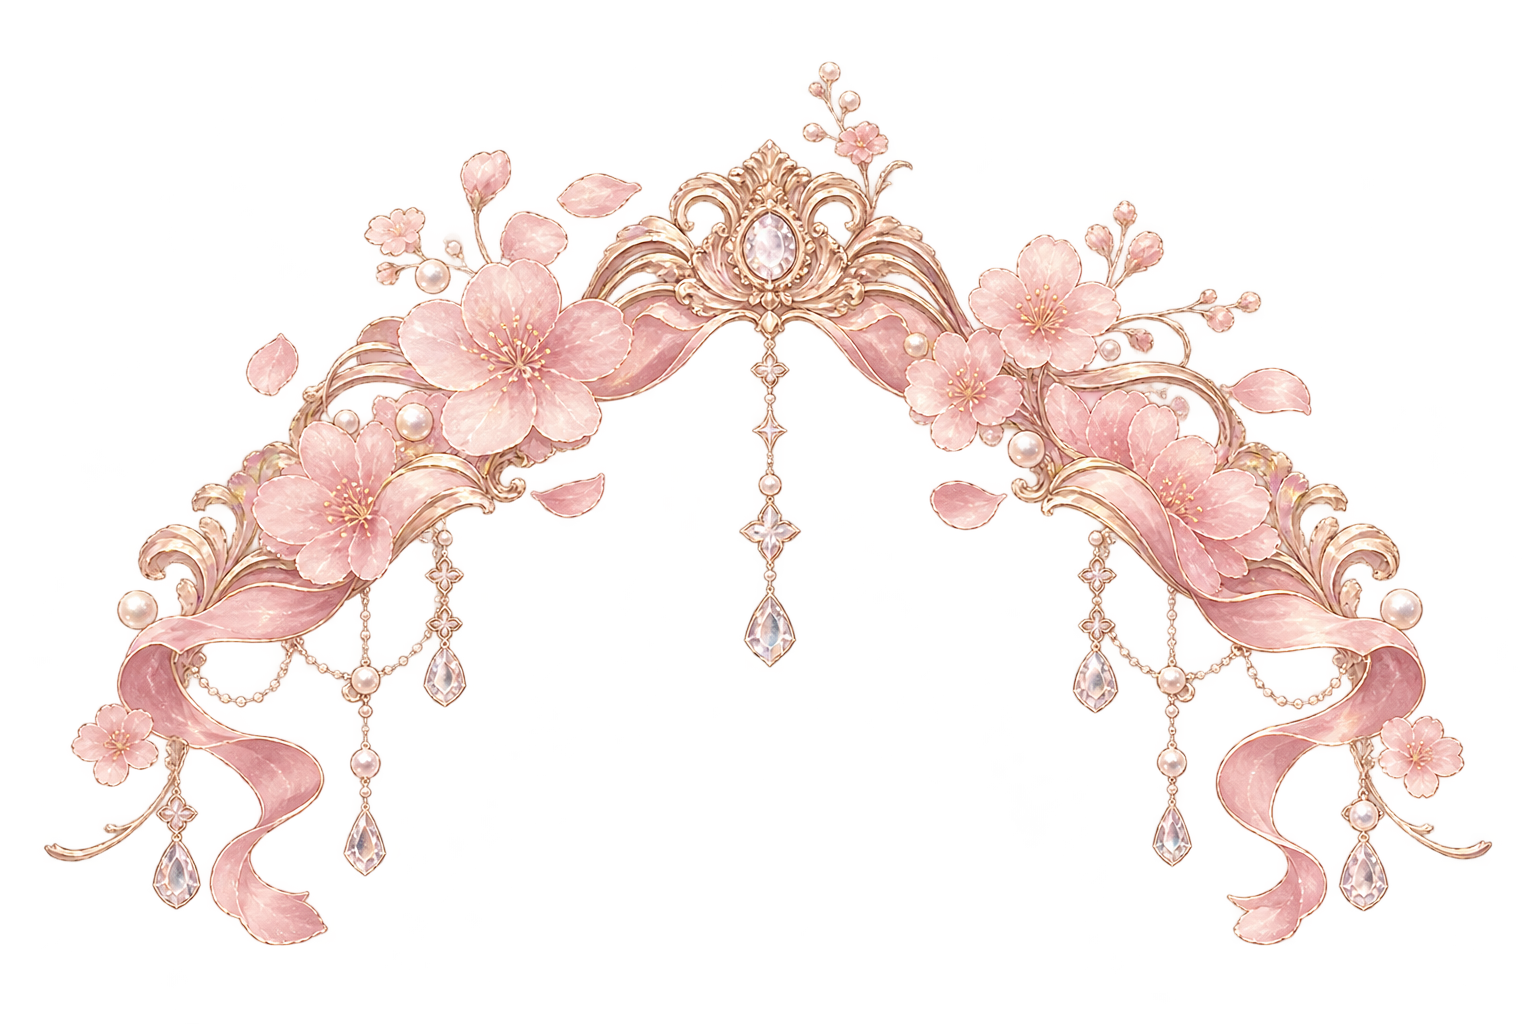
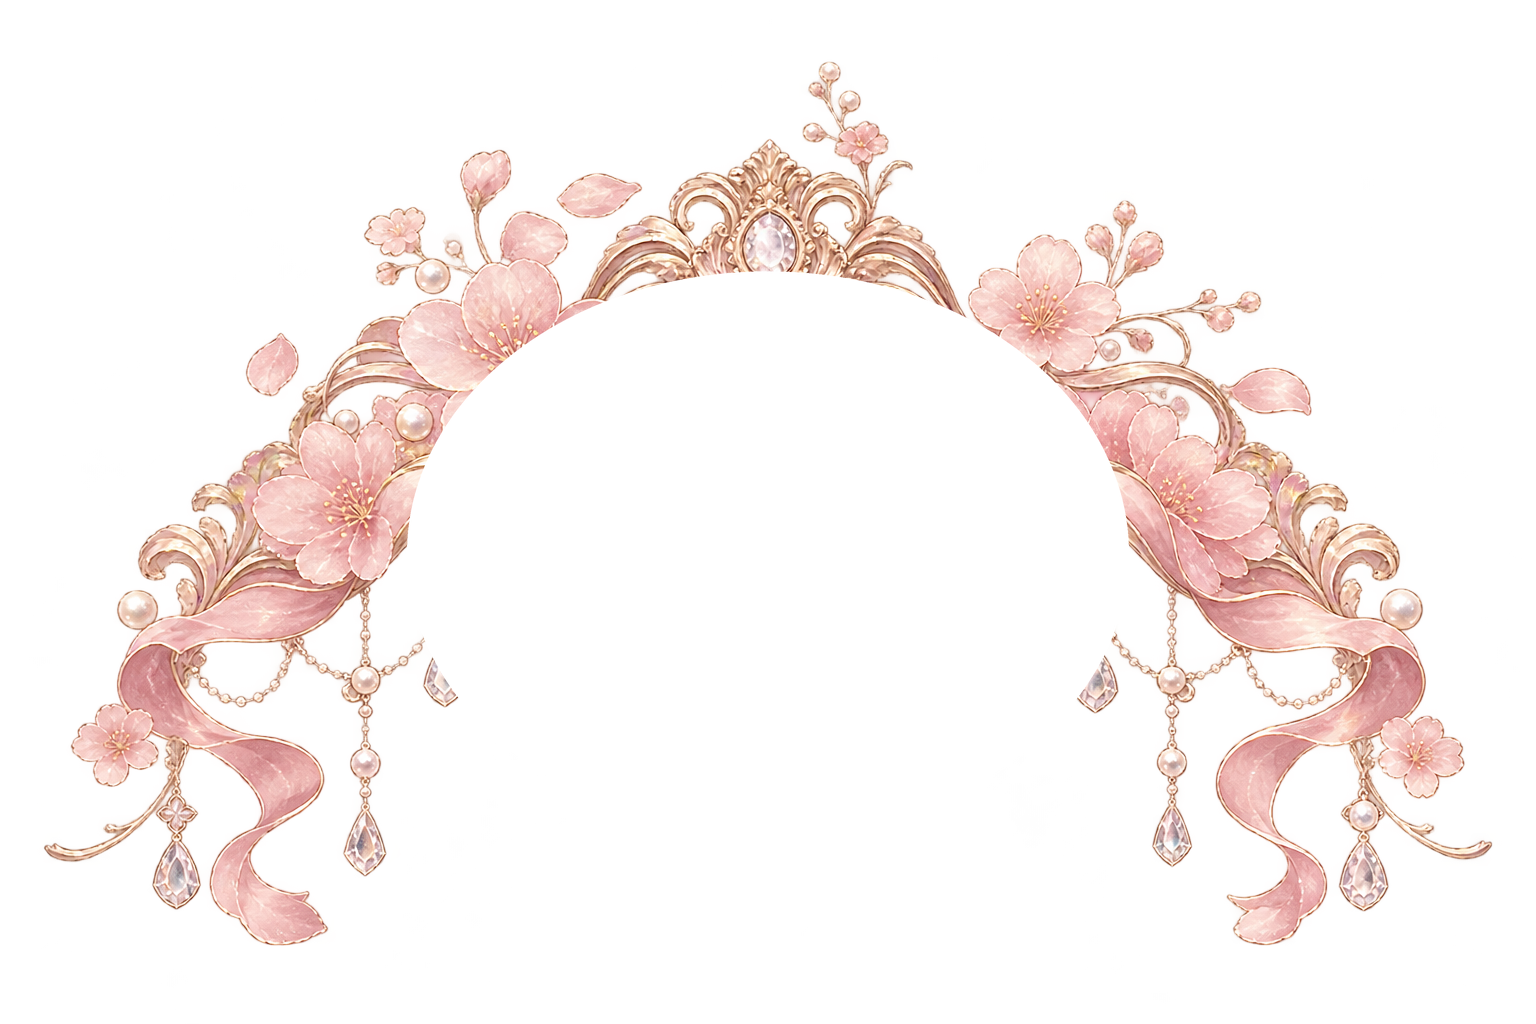
Integra el hero en forma ovalada al marco rococó

Changed region(s): [[0.25, 0.25, 0.75, 0.6875]]

diff --git a/index.html b/index.html
@@ -169,10 +169,10 @@ body{background-color:var(--color-porcelain);background-image:radial-gradient(el
 /* Marco rococó translúcido rodeando el producto en el hero */
 .hero:after{display:none!important}
 .hero-art{overflow:visible;border-radius:14px;aspect-ratio:1.5;height:auto;max-height:340px}
-.hero-art img:not(.hero-frame){position:absolute;top:32%;left:29%;z-index:4;width:42%;height:42%;object-fit:contain;padding:5px;border:2px solid #E5CBAE;border-radius:11px;background:#FFFDFB;box-shadow:0 8px 24px #71505F30;animation:none!important;transform:none!important;will-change:auto}
+.hero-art img:not(.hero-frame){position:absolute;inset:0;z-index:2;width:100%;height:100%;object-fit:cover;padding:0;border:0;border-radius:0;background:transparent;clip-path:ellipse(27.7% 33% at 50% 55%);box-shadow:none;animation:none!important;transform:none!important;will-change:auto}
 .hero-art .hero-frame{position:absolute;z-index:3;top:-10%;left:-9%;width:118%;height:120%;object-fit:fill;opacity:1;pointer-events:none;animation:none!important;transform:none!important;will-change:auto;filter:drop-shadow(0 5px 9px #71505F25)}
 .hero-art:after{z-index:5}
-@media(max-width:760px){.video-carousel{gap:12px;padding:8px 2px 16px}.video-card{flex-basis:74vw;max-width:280px}.carousel-btn{width:38px;height:38px}.video-note{padding:16px;align-items:flex-start}.video-note strong{font-size:16px}.hero-art{aspect-ratio:1.45;max-height:none;border-radius:12px}.hero-art .hero-frame{top:-9%;left:-8%;width:116%;height:118%}.hero-art img:not(.hero-frame){top:32%;left:28%;width:44%;height:43%;border-radius:9px}}
+@media(max-width:760px){.video-carousel{gap:12px;padding:8px 2px 16px}.video-card{flex-basis:74vw;max-width:280px}.carousel-btn{width:38px;height:38px}.video-note{padding:16px;align-items:flex-start}.video-note strong{font-size:16px}.hero-art{aspect-ratio:1.45;max-height:none;border-radius:12px}.hero-art .hero-frame{top:-9%;left:-8%;width:116%;height:118%}.hero-art img:not(.hero-frame){clip-path:ellipse(27.3% 32.5% at 50% 55%)}}
 @media(prefers-reduced-motion:reduce){.video-carousel{scroll-behavior:auto}}
 </style></head>
 <body><div class="top">GRAYIÉ · BEAUTY BOUTIQUE</div>
